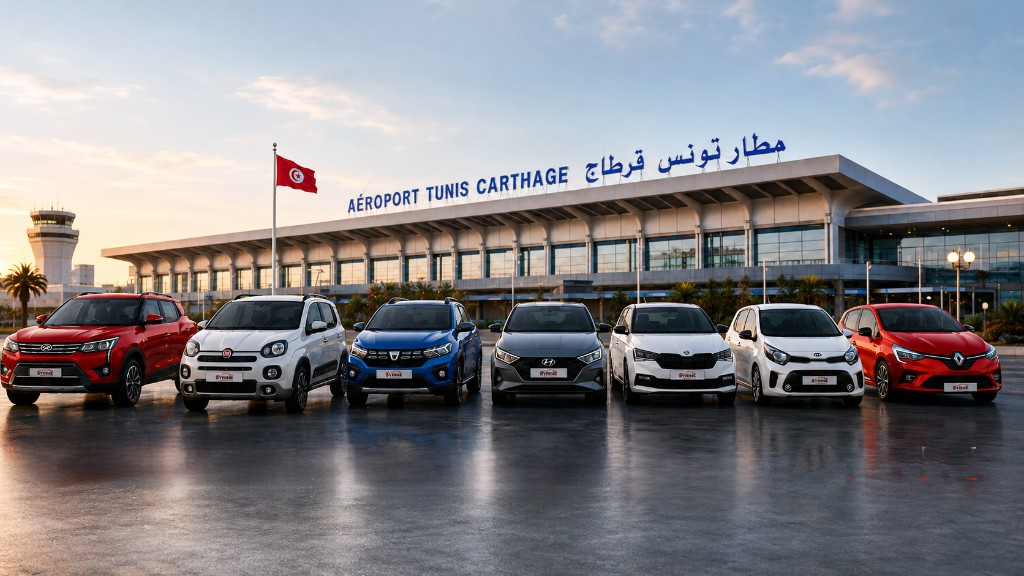
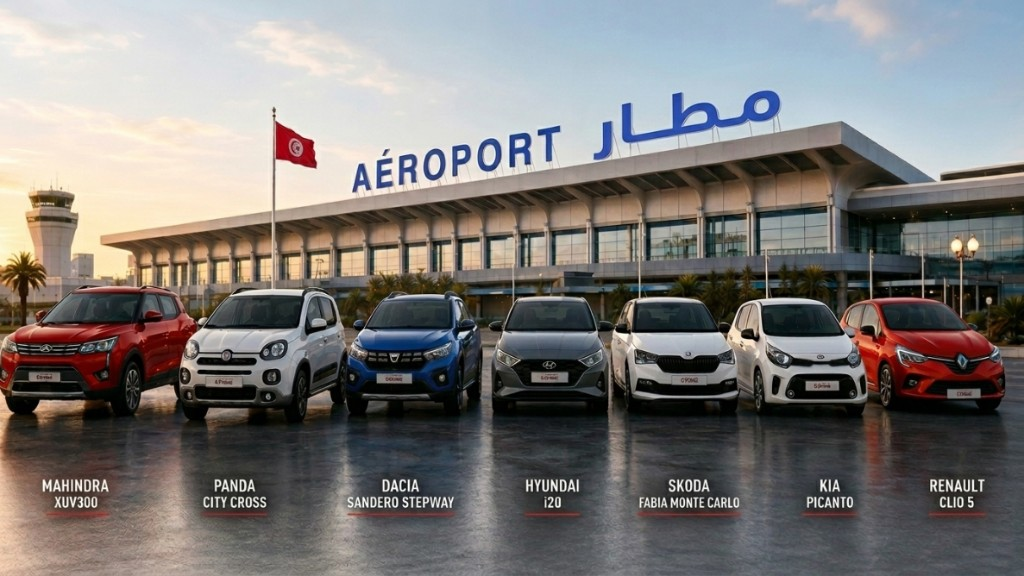
change gallery photos

diff --git a/src/pages/About.tsx b/src/pages/About.tsx
@@ -117,7 +117,7 @@ const About = () => {
               >
                 <div className="overflow-hidden rounded-2xl border border-border/60 shadow-[0_0_0_1px_hsl(351_96%_44%/0.12),0_32px_64px_-24px_rgba(0,0,0,0.65)]">
                   <img
-                    src={SITE_IMAGES.fleetPromo}
+                    src={SITE_IMAGES.fleetMarketing}
                     alt="Flotte Syrine Rent Car — location de voitures à Tunis, livraison aéroport Tunis-Carthage"
                     className="aspect-[4/3] w-full object-cover"
                     loading="eager"
@@ -216,7 +216,7 @@ const About = () => {
               className="overflow-hidden rounded-2xl border border-border/60 shadow-[0_24px_48px_-24px_rgba(0,0,0,0.55)]"
             >
               <img
-                src={SITE_IMAGES.fleetPromo}
+                src={SITE_IMAGES.fleetMarketing}
                 alt="Flotte Syrine Rent Car — location de voitures Tunisie, livraison aéroport Tunis-Carthage"
                 className="max-h-[520px] w-full object-cover object-center"
                 loading="lazy"

diff --git a/src/components/HomeLocationSection.tsx b/src/components/HomeLocationSection.tsx
@@ -58,7 +58,7 @@ export function HomeLocationSection() {
           >
             <div className="relative h-44 overflow-hidden sm:h-52">
               <img
-                src={SITE_IMAGES.fleetPromo}
+                src={SITE_IMAGES.fleetMarketing}
                 alt="Flotte Syrine Rent Car — location de voitures Tunisie, livraison aéroport Tunis-Carthage"
                 width={640}
                 height={480}

diff --git a/src/lib/siteImages.ts b/src/lib/siteImages.ts
@@ -1,4 +1,7 @@
 /** Public site images — single source for marketing photos */
 export const SITE_IMAGES = {
+  /** Parallax promo strip on home (fleet lineup at airport). */
   fleetPromo: "/syrine-fleet-promo.png",
+  /** Full marketing banner — About, Localisation, social previews. */
+  fleetMarketing: "/syrine-fleet-marketing.png",
 } as const;

diff --git a/src/seo/seoConfig.ts b/src/seo/seoConfig.ts
@@ -29,7 +29,7 @@ export const SITE = {
     lat: 35.7301,
     lng: 10.5594,
   },
-  ogImage: "https://www.syrinerentcar.com/syrine-fleet-promo.png",
+  ogImage: "https://www.syrinerentcar.com/syrine-fleet-marketing.png",
   twitterHandle: "@syrine_rent_car",
   ga4Id: "G-XXXXXXXXXX",
   gscVerification: "google-site-verification=XXXXXXXXXXXXXXXX",
